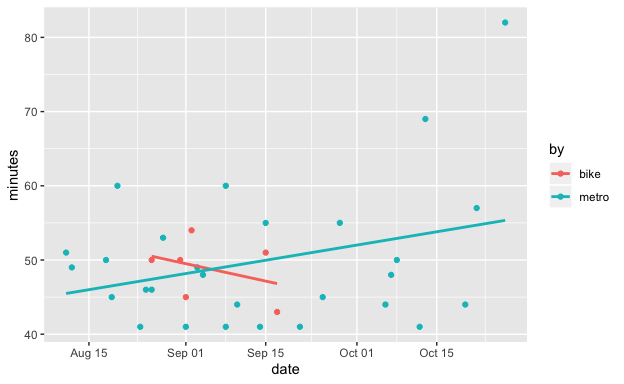
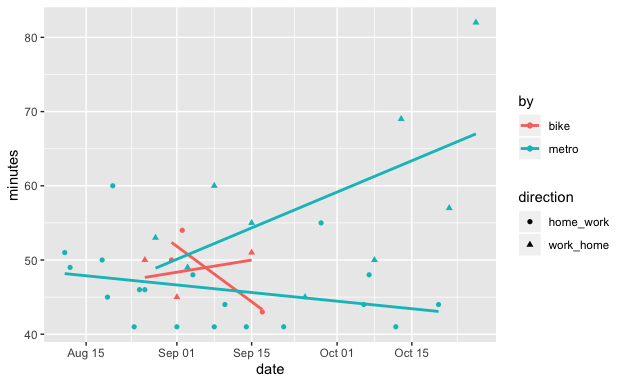
automatically in date format now

diff --git a/commute.md b/commute.md
@@ -73,21 +73,8 @@ dd %>% ggplot(aes(date, minutes)) + geom_point()
 
 ![](commute_files/figure-gfm/unnamed-chunk-4-1.png)<!-- -->
 
-Wait, I didn’t record the time every day and sometimes twice (both
-directions). The x-axis should reflect that. We change the type of the
-`date` column to ‘Date’.
-
-``` r
-dd$date <- as.Date(dd$date)
-```
-
-``` r
-dd %>% ggplot(aes(date, minutes)) + geom_point()
-```
-
-![](commute_files/figure-gfm/unnamed-chunk-6-1.png)<!-- -->
-
-Much nicer.
+(If the x-axis doesn’t look like this, try `dd$date <- as.Date(dd$date)`
+to change the type of the `date` column, then plot again.)
 
 What does the distribution of commute times look like? Let’s make a
 histogram.
@@ -98,7 +85,7 @@ dd %>% ggplot(aes(minutes)) + geom_histogram()
 
     ## `stat_bin()` using `bins = 30`. Pick better value with `binwidth`.
 
-![](commute_files/figure-gfm/unnamed-chunk-7-1.png)<!-- -->
+![](commute_files/figure-gfm/unnamed-chunk-5-1.png)<!-- -->
 
 We notice the binwidth message. Let’s set the binwidth to 1 minute.
 
@@ -106,7 +93,7 @@ We notice the binwidth message. Let’s set the binwidth to 1 minute.
 dd %>% ggplot(aes(minutes)) + geom_histogram(binwidth = 1)
 ```
 
-![](commute_files/figure-gfm/unnamed-chunk-8-1.png)<!-- -->
+![](commute_files/figure-gfm/unnamed-chunk-6-1.png)<!-- -->
 
 -----
 
@@ -119,7 +106,7 @@ histogram based on the `by` column.
 dd %>% ggplot(aes(minutes, fill = by)) + geom_histogram(binwidth = 1)
 ```
 
-![](commute_files/figure-gfm/unnamed-chunk-9-1.png)<!-- -->
+![](commute_files/figure-gfm/unnamed-chunk-7-1.png)<!-- -->
 
 Do you see how the blue-ish bars “bump up” the red bars (e.g., around 50
 minutes)? There are two ways to get rid of that.
@@ -133,7 +120,7 @@ other
 dd %>% ggplot(aes(minutes, fill = by)) + geom_histogram(binwidth = 1, position = "dodge")
 ```
 
-![](commute_files/figure-gfm/unnamed-chunk-10-1.png)<!-- --> That’s not
+![](commute_files/figure-gfm/unnamed-chunk-8-1.png)<!-- --> That’s not
 good here because now the blue-ish metro bars are to the right of the
 red bike bars, so if we want to say which one is faster we just
 introduced a bias in favor of bike (by moving those bars to the left).
@@ -147,7 +134,7 @@ histograms
 dd %>% ggplot(aes(minutes)) + geom_histogram(binwidth = 1) + facet_grid(~by)
 ```
 
-![](commute_files/figure-gfm/unnamed-chunk-11-1.png)<!-- -->
+![](commute_files/figure-gfm/unnamed-chunk-9-1.png)<!-- -->
 
 Wow, that is simple\! I really like the `facet_grid` command. Note that
 both histograms use the same scales, that makes it good for comparison.
@@ -161,7 +148,7 @@ believe).
 dd %>% ggplot(aes(minutes)) + geom_histogram(binwidth = 1) + facet_grid(by~.)
 ```
 
-![](commute_files/figure-gfm/unnamed-chunk-12-1.png)<!-- -->
+![](commute_files/figure-gfm/unnamed-chunk-10-1.png)<!-- -->
 
 Perfect\!
 
@@ -193,7 +180,7 @@ The `.` becomes
 dd %>% ggplot(aes(minutes)) + geom_histogram(binwidth = 1) + facet_grid(by ~ direction)
 ```
 
-![](commute_files/figure-gfm/unnamed-chunk-14-1.png)<!-- -->
+![](commute_files/figure-gfm/unnamed-chunk-12-1.png)<!-- -->
 
 Interesting. The slow train rides where always from work to home (i.e.,
 at night) while the really fast rides where from home to work (i.e.,
@@ -206,7 +193,7 @@ before?
 dd %>% ggplot(aes(minutes)) + geom_histogram(binwidth = 1) + facet_grid(by + direction ~ .)
 ```
 
-![](commute_files/figure-gfm/unnamed-chunk-15-1.png)<!-- -->
+![](commute_files/figure-gfm/unnamed-chunk-13-1.png)<!-- -->
 
 I like that. With this layout, I feel so much faster to “see the story”
 of these data points.
@@ -218,7 +205,7 @@ colors.
 dd %>% ggplot(aes(minutes, fill = direction)) + geom_histogram(binwidth = 1) + facet_grid(by + direction ~ .)
 ```
 
-![](commute_files/figure-gfm/unnamed-chunk-16-1.png)<!-- -->
+![](commute_files/figure-gfm/unnamed-chunk-14-1.png)<!-- -->
 
 Let’s help the eye with some nicer
 colors.
@@ -228,7 +215,7 @@ dd %>% ggplot(aes(minutes, fill = direction)) + geom_histogram(binwidth = 1) + f
   scale_fill_brewer(palette = "Set1")
 ```
 
-![](commute_files/figure-gfm/unnamed-chunk-17-1.png)<!-- -->
+![](commute_files/figure-gfm/unnamed-chunk-15-1.png)<!-- -->
 
 -----
 
@@ -244,7 +231,7 @@ Let’s repeat the plot from the beginning
 dd %>% ggplot(aes(date, minutes)) + geom_point()
 ```
 
-![](commute_files/figure-gfm/unnamed-chunk-18-1.png)<!-- -->
+![](commute_files/figure-gfm/unnamed-chunk-16-1.png)<!-- -->
 
 In this plot I notice two things
 
@@ -258,7 +245,7 @@ To visualize \#1 we can just make another histogram.
 dd %>% ggplot(aes(date)) + geom_histogram(binwidth = 14)
 ```
 
-![](commute_files/figure-gfm/unnamed-chunk-19-1.png)<!-- -->
+![](commute_files/figure-gfm/unnamed-chunk-17-1.png)<!-- -->
 
 I played with the width of the bins, and chose 2 weeks = 14 days. Ok,
 seems there was a time when I was most motivated to record my commutes.
@@ -270,7 +257,7 @@ trend over time?), let’s try to add a line.
 dd %>% ggplot(aes(date, minutes)) + geom_point() + geom_line()
 ```
 
-![](commute_files/figure-gfm/unnamed-chunk-20-1.png)<!-- -->
+![](commute_files/figure-gfm/unnamed-chunk-18-1.png)<!-- -->
 
 Hm, this connected the points with a line (definitely useful in other
 cases) but here we want something like an average line.
@@ -281,7 +268,7 @@ dd %>% ggplot(aes(date, minutes)) + geom_point() + geom_smooth()
 
     ## `geom_smooth()` using method = 'loess' and formula 'y ~ x'
 
-![](commute_files/figure-gfm/unnamed-chunk-21-1.png)<!-- -->
+![](commute_files/figure-gfm/unnamed-chunk-19-1.png)<!-- -->
 
 Great\! This suggests that my commuting times where stable until October
 and then got really worse. But careful, this line is already an
@@ -306,7 +293,7 @@ property).
 dd %>% ggplot(aes(date, minutes, colour = by)) + geom_point() + geom_smooth(method = lm)
 ```
 
-![](commute_files/figure-gfm/unnamed-chunk-23-1.png)<!-- -->
+![](commute_files/figure-gfm/unnamed-chunk-21-1.png)<!-- -->
 
 Small change, big result\!
 
@@ -321,7 +308,7 @@ demonstration.
 dd %>% ggplot(aes(date, minutes, colour = by)) + geom_point() + geom_smooth(method = lm, se = FALSE)
 ```
 
-![](commute_files/figure-gfm/unnamed-chunk-24-1.png)<!-- -->
+![](commute_files/figure-gfm/unnamed-chunk-22-1.png)<!-- -->
 
 How about additionally splitting the data by `direction`? We could use
 the facets, as we did
@@ -332,7 +319,7 @@ dd %>% ggplot(aes(date, minutes, colour = by)) + geom_point() + geom_smooth(meth
   facet_grid(direction~.)
 ```
 
-![](commute_files/figure-gfm/unnamed-chunk-25-1.png)<!-- -->
+![](commute_files/figure-gfm/unnamed-chunk-23-1.png)<!-- -->
 
 If we want to have only one plot, we could, for each direction,
 
@@ -353,7 +340,7 @@ dd %>%
   geom_smooth(method = lm, se = FALSE)
 ```
 
-![](commute_files/figure-gfm/unnamed-chunk-26-1.png)<!-- -->
+![](commute_files/figure-gfm/unnamed-chunk-24-1.png)<!-- -->
 
 2)  Give different styles to the lines
 
@@ -366,7 +353,7 @@ dd %>%
   geom_smooth(method = lm, se = FALSE)
 ```
 
-![](commute_files/figure-gfm/unnamed-chunk-27-1.png)<!-- -->
+![](commute_files/figure-gfm/unnamed-chunk-25-1.png)<!-- -->
 
 3)  Both
 
@@ -379,7 +366,7 @@ dd %>%
   geom_smooth(method = lm, se = FALSE)
 ```
 
-![](commute_files/figure-gfm/unnamed-chunk-28-1.png)<!-- -->
+![](commute_files/figure-gfm/unnamed-chunk-26-1.png)<!-- -->
 
 Great, ggplot understands that `shape` belongs to the points and `lty`
 to the lines.
@@ -400,7 +387,7 @@ dd %>%
   scale_shape_manual(values = c(19, 1))
 ```
 
-![](commute_files/figure-gfm/unnamed-chunk-29-1.png)<!-- -->
+![](commute_files/figure-gfm/unnamed-chunk-27-1.png)<!-- -->
 
 *Let’s have another workshop sometime where I tell you about reshaping
 your data…*
